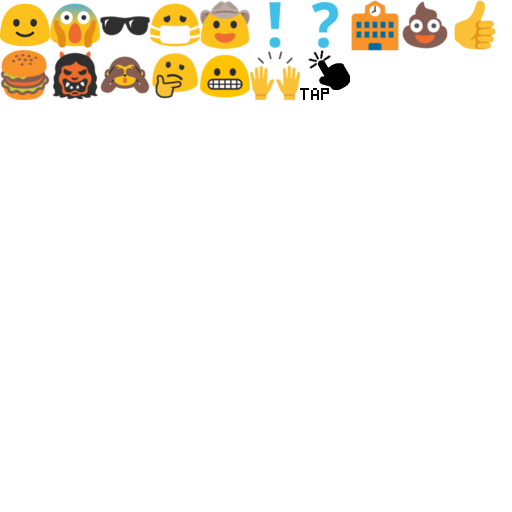
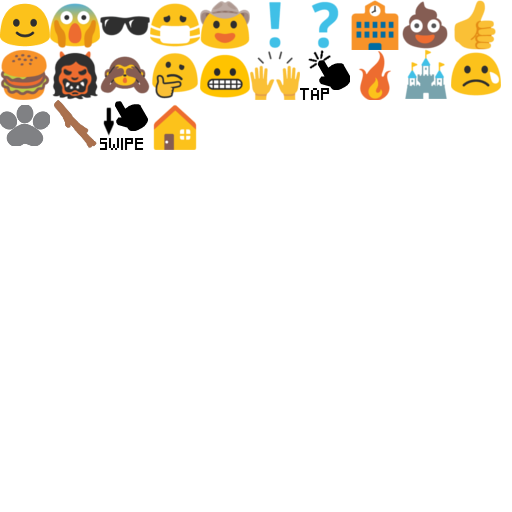
Implemented new story text with more emojis.

Changed region(s): [[0.0, 0.1875, 0.4062, 0.3125], [0.6875, 0.0938, 1.0, 0.2188]]

diff --git a/js/dialogs/story.js b/js/dialogs/story.js
@@ -1,1 +1,1 @@
-var storyContent = {"inkVersion":16,"root":[{"->":"Introduction"},"done",{"Introduction":[["^collar:Everything looks in order, let's head back home!","\n","^collar:Don't forget to grab some sticks for the fire in our way unless you want to freeze!","\n",["ev",{"^->":"Introduction.0.4.$r1"},{"temp=":"$r"},"str",{"->":".^.s"},[{"#n":"$r1"}],"/str","/ev",{"*":".^.c","flg":18},{"s":["^dog:What? Who is talking? Get out of my head!!!",{"->":"$r","var":true},null],"c":["ev",{"^->":"Introduction.0.4.c.$r2"},"/ev",{"temp=":"$r"},{"->":".^.^.s"},[{"#n":"$r2"}],"\n","^collar:Are you serious? Is your memory implant faulty again?","\n","^collar:Ok, let's make it brief. You are Rogelius, one of the dogs in charge of keeping the forest safe.","\n","^collar:My name is SAL, your companion since birth. I help you with everyday tasks and when things like this happen!!!","\n","^collar:Now go and get the damn sticks!","\n",{"->":".^.^.^.g-0"},{"#f":7}]}],["ev",{"^->":"Introduction.0.5.$r1"},{"temp=":"$r"},"str",{"->":".^.s"},[{"#n":"$r1"}],"/str","/ev",{"*":".^.c","flg":18},{"s":["^dog:After making me patrol so much of the forest I thought you wanted to see me dead!",{"->":"$r","var":true},null],"c":["ev",{"^->":"Introduction.0.5.c.$r2"},"/ev",{"temp=":"$r"},{"->":".^.^.s"},[{"#n":"$r2"}],"\n",{"->":".^.^.^.g-0"},{"#f":7}]}],["ev",{"^->":"Introduction.0.6.$r1"},{"temp=":"$r"},"str",{"->":".^.s"},[{"#n":"$r1"}],"/str","/ev",{"*":".^.c","flg":18},{"s":["^dog:Yeah, we should get the gas stove fixed.",{"->":"$r","var":true},null],"c":["ev",{"^->":"Introduction.0.6.c.$r2"},"/ev",{"temp=":"$r"},{"->":".^.^.s"},[{"#n":"$r2"}],"\n","^collar:Well, I doesn't really affect me. But sure.","\n",{"->":".^.^.^.g-0"},{"#f":7}]}],{"g-0":["^COMMAND",{"#":"GOTO WAIT_STICKS"},"\n",{"->":".^.^.^.got_sticks"},{"#f":7}]}],{"got_sticks":[["^collar:Oh, I've got an update!","\n","^collar:I've been told we can find some stuff underground.","\n","^collar:Quick!, click in the paw animation I've just highlighted.","\n",["ev",{"^->":"Introduction.got_sticks.0.6.$r1"},{"temp=":"$r"},"str",{"->":".^.s"},[{"#n":"$r1"}],"/str","/ev",{"*":".^.c","flg":18},{"s":["^dog:Ok, let's see.",{"->":"$r","var":true},null],"c":["ev",{"^->":"Introduction.got_sticks.0.6.c.$r2"},"/ev",{"temp=":"$r"},{"->":".^.^.s"},[{"#n":"$r2"}],"\n",{"->":".^.^.^.g-0"},{"#f":7}]}],["ev",{"^->":"Introduction.got_sticks.0.7.$r1"},{"temp=":"$r"},"str",{"->":".^.s"},[{"#n":"$r1"}],"/str","/ev",{"*":".^.c","flg":18},{"s":["^dog:Update? It's been a while since the last one! Is this another one of your stupid jokes?",{"->":"$r","var":true},null],"c":["ev",{"^->":"Introduction.got_sticks.0.7.c.$r2"},"/ev",{"temp=":"$r"},{"->":".^.^.s"},[{"#n":"$r2"}],"\n","^collar:It is for real this time. Something interesting might be going on for a change.","\n","^collar:But you are right, I also thing something is a bit off.","\n",{"->":".^.^.^.g-0"},{"#f":7}]}],{"g-0":["^COMMAND",{"#":"GOTO DIG_DIRT"},"\n",{"->":".^.^.^.^.found_bad_card"},{"#f":7}]}],{"#f":3}],"found_bad_card":[["^collar:What is this? Click it!","\n",["^COMMAND",{"#":"GOTO CLICK_CARD"},"\n",{"->":".^.^.^.^.clicked_bad_card"},{"#f":7,"#n":"g-0"}],null],{"#f":3}],"clicked_bad_card":["^collar:Crap. I hope nothing happened for real. Let's go home.","\n","^COMMAND",{"#":"GOTO GAME_ENCOUNTER"},"\n",{"->":".^.^.first_encounter"},{"#f":3}],"first_encounter":[["^collar:This shouldn't be here","\n",["ev",{"^->":"Introduction.first_encounter.0.2.$r1"},{"temp=":"$r"},"str",{"->":".^.s"},[{"#n":"$r1"}],"/str","/ev",{"*":".^.c","flg":18},{"s":["^dog:No",{"->":"$r","var":true},null],"c":["ev",{"^->":"Introduction.first_encounter.0.2.c.$r2"},"/ev",{"temp=":"$r"},{"->":".^.^.s"},[{"#n":"$r2"}],"\n","^collar:And looks an awful lot like the one on the ancient device","\n",["ev",{"^->":"Introduction.first_encounter.0.2.c.9.$r1"},{"temp=":"$r"},"str",{"->":".^.s"},[{"#n":"$r1"}],"/str","/ev",{"*":".^.c","flg":18},{"s":["^dog:Yes",{"->":"$r","var":true},null],"c":["ev",{"^->":"Introduction.first_encounter.0.2.c.9.c.$r2"},"/ev",{"temp=":"$r"},{"->":".^.^.s"},[{"#n":"$r2"}],"\n","^collar:Crap","\n",["ev",{"^->":"Introduction.first_encounter.0.2.c.9.c.9.$r1"},{"temp=":"$r"},"str",{"->":".^.s"},[{"#n":"$r1"}],"/str","/ev",{"*":".^.c","flg":18},{"s":["^dog:Well, let me try something",{"->":"$r","var":true},null],"c":["ev",{"^->":"Introduction.first_encounter.0.2.c.9.c.9.c.$r2"},"/ev",{"temp=":"$r"},{"->":".^.^.s"},[{"#n":"$r2"}],"\n",{"->":".^.^.^.^.^.^.^.g-0"},{"#f":7}]}],["ev",{"^->":"Introduction.first_encounter.0.2.c.9.c.10.$r1"},{"temp=":"$r"},"str",{"->":".^.s"},[{"#n":"$r1"}],"/str","/ev",{"*":".^.c","flg":18},{"s":["^dog:Do you have any suggestions on what to do?",{"->":"$r","var":true},null],"c":["ev",{"^->":"Introduction.first_encounter.0.2.c.9.c.10.c.$r2"},"/ev",{"temp=":"$r"},{"->":".^.^.s"},[{"#n":"$r2"}],"\n","^collar:Probably we can throw our sticks at it. I can help you aim, just click on the crosshair I'll set up when points to the green part.","\n","^collar:I'd say you'll have to do what the card said for defending","\n",{"->":".^.^.^.^.^.^.^.g-0"},{"#f":7}]}],{"#f":7}]}],{"#f":7}]}],["ev",{"^->":"Introduction.first_encounter.0.3.$r1"},{"temp=":"$r"},"str",{"->":".^.s"},[{"#n":"$r1"}],"/str","/ev",{"*":".^.c","flg":18},{"s":["^dog:No Shit! Anyway, I know what to do!",{"->":"$r","var":true},null],"c":["ev",{"^->":"Introduction.first_encounter.0.3.c.$r2"},"/ev",{"temp=":"$r"},{"->":".^.^.s"},[{"#n":"$r2"}],"\n",{"->":".^.^.^.g-0"},{"#f":7}]}],{"g-0":["^COMMAND",{"#":"GOTO WAIT_COMBAT_FINISHED"},"\n",{"->":".^.^.^.^.combat_finished"},{"#f":7}]}],{"#f":3}],"combat_finished":[["^collar: Nice! We got rid of it! Looks like it contained another card.","\n",["ev",{"^->":"Introduction.combat_finished.0.2.$r1"},{"temp=":"$r"},"str",{"->":".^.s"},[{"#n":"$r1"}],"/str","/ev",{"*":".^.c","flg":18},{"s":["^dog:Well \"I\" got rid of it. But whatever, let me grab my card.",{"->":"$r","var":true},null],"c":["ev",{"^->":"Introduction.combat_finished.0.2.c.$r2"},"/ev",{"temp=":"$r"},{"->":".^.^.s"},[{"#n":"$r2"}],"\n",{"->":".^.^.^.g-0"},{"#f":7}]}],["ev",{"^->":"Introduction.combat_finished.0.3.$r1"},{"temp=":"$r"},"str",{"->":".^.s"},[{"#n":"$r1"}],"/str","/ev",{"*":".^.c","flg":18},{"s":["^dog:I'm not sure I want to activate this.",{"->":"$r","var":true},null],"c":["ev",{"^->":"Introduction.combat_finished.0.3.c.$r2"},"/ev",{"temp=":"$r"},{"->":".^.^.s"},[{"#n":"$r2"}],"\n","^collar:Well, what's the worst that coudld happen?","\n","^dog:...","\n",{"->":".^.^.^.g-0"},{"#f":7}]}],{"g-0":["^COMMAND",{"#":"GOTO WAIT_FOR_LOOT"},"\n",{"->":".^.^.^.^.loot_finished"},{"#f":7}]}],{"#f":3}],"loot_finished":[["^collar:It looks like those monsters hoard helpful cards! Those will come in handy!","\n","^collar:We shouldn't go home now, we need to find answers.","\n",["ev",{"^->":"Introduction.loot_finished.0.4.$r1"},{"temp=":"$r"},"str",{"->":".^.s"},[{"#n":"$r1"}],"/str","/ev",{"*":".^.c","flg":18},{"s":["^dog:HQ it is!",{"->":"$r","var":true},null],"c":["ev",{"^->":"Introduction.loot_finished.0.4.c.$r2"},"/ev",{"temp=":"$r"},{"->":".^.^.s"},[{"#n":"$r2"}],"\n",{"->":".^.^.^.g-0"},{"#f":7}]}],["ev",{"^->":"Introduction.loot_finished.0.5.$r1"},{"temp=":"$r"},"str",{"->":".^.s"},[{"#n":"$r1"}],"/str","/ev",{"*":".^.c","flg":18},{"s":["^dog:Answers where?",{"->":"$r","var":true},null],"c":["ev",{"^->":"Introduction.loot_finished.0.5.c.$r2"},"/ev",{"temp=":"$r"},{"->":".^.^.s"},[{"#n":"$r2"}],"\n","^collar:At HQ, they were the ones who sent the weird update in the first place.","\n",["ev",{"^->":"Introduction.loot_finished.0.5.c.9.$r1"},{"temp=":"$r"},"str",{"->":".^.s"},[{"#n":"$r1"}],"/str","/ev",{"*":".^.c","flg":18},{"s":["^dog:Let's do that then. And kick their asses once we get there!",{"->":"$r","var":true},null],"c":["ev",{"^->":"Introduction.loot_finished.0.5.c.9.c.$r2"},"/ev",{"temp=":"$r"},{"->":".^.^.s"},[{"#n":"$r2"}],"\n",{"->":".^.^.^.^.^.g-0"},{"#f":7}]}],["ev",{"^->":"Introduction.loot_finished.0.5.c.10.$r1"},{"temp=":"$r"},"str",{"->":".^.s"},[{"#n":"$r1"}],"/str","/ev",{"*":".^.c","flg":18},{"s":["^dog:HQ?",{"->":"$r","var":true},null],"c":["ev",{"^->":"Introduction.loot_finished.0.5.c.10.c.$r2"},"/ev",{"temp=":"$r"},{"->":".^.^.s"},[{"#n":"$r2"}],"\n","^collar:Come on! What happens to you today?","\n","^collar:Boss will explay once we get there.","\n","^collar:And hopefully fix your damn brain.","\n",{"->":".^.^.^.^.^.g-0"},{"#f":7}]}],{"#f":7}]}],{"g-0":["^collar:Just be careful, more of those enemies might appear on the way.","\n","^COMMAND",{"#":"GOTO CONTINUE_WAY"},"\n","done",{"#f":7}]}],{"#f":3}],"no_more_sticks":["^collar:Looks like you ran out of sticks!","\n","^collar:I know it might be dangerous, but maybe you should try to dig for them.","\n","done",{"#f":3}],"basic_enemy_card_found":["^collar:What is that??? A bunch of dirt?","\n","done",{"#f":3}],"bee_enemy_card_found":["^collar:Be careful with those missiles!","\n","done",{"#f":3}],"first_gear_card_found":["^collar:Nice! You'll be able to equip those!","\n","done",{"#f":3}],"#f":3}],"#f":3}],"listDefs":{}};
+var storyContent = {"inkVersion":16,"root":[{"->":"Introduction"},"done",{"Introduction":[["^collar:Stop running around!\\nGrab some :stick: for your :fire:\\n:tap: the :smile: for more chit chat","\n",["^COMMAND",{"#":"GOTO WAIT_STICKS"},"\n",{"->":".^.^.^.got_sticks"},{"#f":7,"#n":"g-0"}],null],{"got_sticks":[["^collar:Wait! :hq: sent a new task :sad:.\\n:tap: the :paw: for digging.\\nNot sure what we are after :pensive:","\n",["^COMMAND",{"#":"GOTO DIG_DIRT"},"\n",{"->":".^.^.^.^.clicked_bad_card"},{"#f":7,"#n":"g-0"}],null],{"#f":3}],"clicked_bad_card":["^collar::afraid:.\\n Probably :poo:, though. Let's go home.","\n","^COMMAND",{"#":"GOTO GAME_ENCOUNTER"},"\n",{"->":".^.^.first_encounter"},{"#f":3}],"first_encounter":[["^collar::pensive: this might be our fault.\\nTry throwing :stick: at it by :tap: when points green.\\nAs the card said, :swipe: in the direction of the arrow to defend.","\n",["^COMMAND",{"#":"GOTO WAIT_COMBAT_FINISHED"},"\n",{"#":"remove combat_finished"},{"->":".^.^.^.^.loot_finished"},{"#f":7,"#n":"g-0"}],null],{"#f":3}],"loot_finished":["^collar::praise: nice!\\nWe should ask :hq: some questions.\\nLet's go!","\n","^COMMAND",{"#":"GOTO CONTINUE_WAY"},"\n","done",{"#f":3}],"no_more_sticks":["^collar:Looks like you ran out of sticks!","\n","^collar:I know it might be dangerous, but maybe you should try to dig for them.","\n","done",{"#f":3}],"basic_enemy_card_found":["^collar:What is that??? A bunch of dirt?","\n","done",{"#f":3}],"bee_enemy_card_found":["^collar:Be careful with those missiles!","\n","done",{"#f":3}],"first_gear_card_found":["^collar:Nice! You'll be able to equip those!","\n","done",{"#f":3}],"#f":3}],"#f":3}],"listDefs":{}};

diff --git a/js/gameModes/dialogManager.js b/js/gameModes/dialogManager.js
@@ -60,8 +60,46 @@ class DialogManager extends GameMode
     {
         var currentCharacter = this.findCharacter(_line);
 
-        var collarText = new MarginsScreenWidget(new TextScreenWidget(_line.fullText), 20, 20);
-        var vGroupContents = [collarText];
+        var collarText = _line.fullText;
+        var emojiText = "";
+        var i = 0;
+        while(i < collarText.length)
+        {
+            var curChar = collarText.charAt(i++);
+            if (curChar !== ':')
+            {
+                emojiText += curChar;
+            }
+            else
+            {
+                var emojiCode = "";
+                do
+                {
+                    emojiCode += curChar;
+                    curChar = collarText.charAt(i++);
+                }
+                while (curChar !== ':')
+                emojiCode += curChar;
+                var id = getCodeForEmoji(emojiCode);
+                if (id)
+                {
+                    emojiText += id;
+                }
+                else
+                {
+                    emojiText += "[]";
+                }
+            }
+        }
+        var emojiLines = emojiText.split('\\n');
+
+        var vGroupContents = [];
+
+        for (var ind in emojiLines)
+        {
+            vGroupContents.push(new MarginsScreenWidget(new TextScreenWidget(emojiLines[ind]), 20, 20));
+        }
+        
         for(var i = 0; i < _line.options.length; i++)
         {
             var curLine = _line.options[i].text;

diff --git a/js/gameConfiguration/storyConfiguration.js b/js/gameConfiguration/storyConfiguration.js
@@ -279,38 +279,6 @@ class DoFirstDig extends EmptyStoryStep
     start(_storyConfiguration, _mainState)
     {
         _mainState.setNextMode("CombatManager");
-        ServiceLocator.registerListener(this.cardPickedCb, this, "WildcardShown");
-        this.cardPicked = false;
-    }
-    
-    update(_storyConfiguration, _curGameMode, _mainState)
-    {
-        if (this.cardPicked)
-        {
-            _storyConfiguration.choosePathString("Introduction.found_bad_card");
-            _mainState.setOverlayGameMode("DialogManager");
-            _storyConfiguration.storyCallback();
-            _storyConfiguration.setStoryStep(new EmptyStoryStep());
-        }
-    }
-    
-    cardPickedCb()
-    {
-        this.cardPicked = true;
-    }
-    
-    finish(_storyConfiguration, _mainState)
-    {
-        ServiceLocator.removeListener(this.cardPickedCb, this, "WildcardShown");
-    }
-}
-
-
-class PickBadCard extends EmptyStoryStep
-{
-    start(_storyConfiguration, _mainState)
-    {
-        _mainState.resetOverlayGameMode();
         ServiceLocator.registerListener(this.cardPickedCb, this, "WildcardPicked");
         this.cardPicked = false;
     }

diff --git a/js/states/mainState.js b/js/states/mainState.js
@@ -6,10 +6,6 @@ function MainState(_game)
     this.currentGameMode;
 };
 
-MainState.prototype.preload = function ()
-{
-}
-
 MainState.prototype.create = function ()
 {
     this.statePaused = false;
@@ -29,7 +25,6 @@ MainState.prototype.create = function ()
     ServiceLocator.initialize('dialogManager', new DialogManager(this, this.player));
     ServiceLocator.initialize('physics', new Physics(this));
 
-    this.game.world.setBounds(0, -65, 192000, 0);
 
     ServiceLocator.renderer.create(this);
     ServiceLocator.inputManager.create(this);

diff --git a/js/utils.js b/js/utils.js
@@ -39,10 +39,24 @@ var emojiCodes = {
     ":pensive:": 14,
     ":grin:": 15,
     ":praise:": 16,
-    ":tap:":17
+    ":tap:": 17,
+    ":fire:": 18,
+    ":hq:": 19,
+    ":sad:": 20,
+    ":paw:": 21,
+    ":stick:": 22,
+    ":swipe:": 23
 };
 
 function getCodeForEmoji(_name)
 {
-    return String.fromCharCode(emojiCodes[_name]);
+    var id = emojiCodes[_name] + 1100;
+    if (id)
+    {
+	    return String.fromCharCode(id);
+    }
+    else
+    {
+        return undefined;
+    }
 }

diff --git a/js/states/initState.js b/js/states/initState.js
@@ -16,6 +16,7 @@ InitState.prototype.preload = function()
 InitState.prototype.create = function()
 {
     ServiceLocator.viewportHandler.onGameCreation(this.game);
+    this.game.world.setBounds(0, -65, 192000, 0);
 }
 
 InitState.prototype.update = function()
